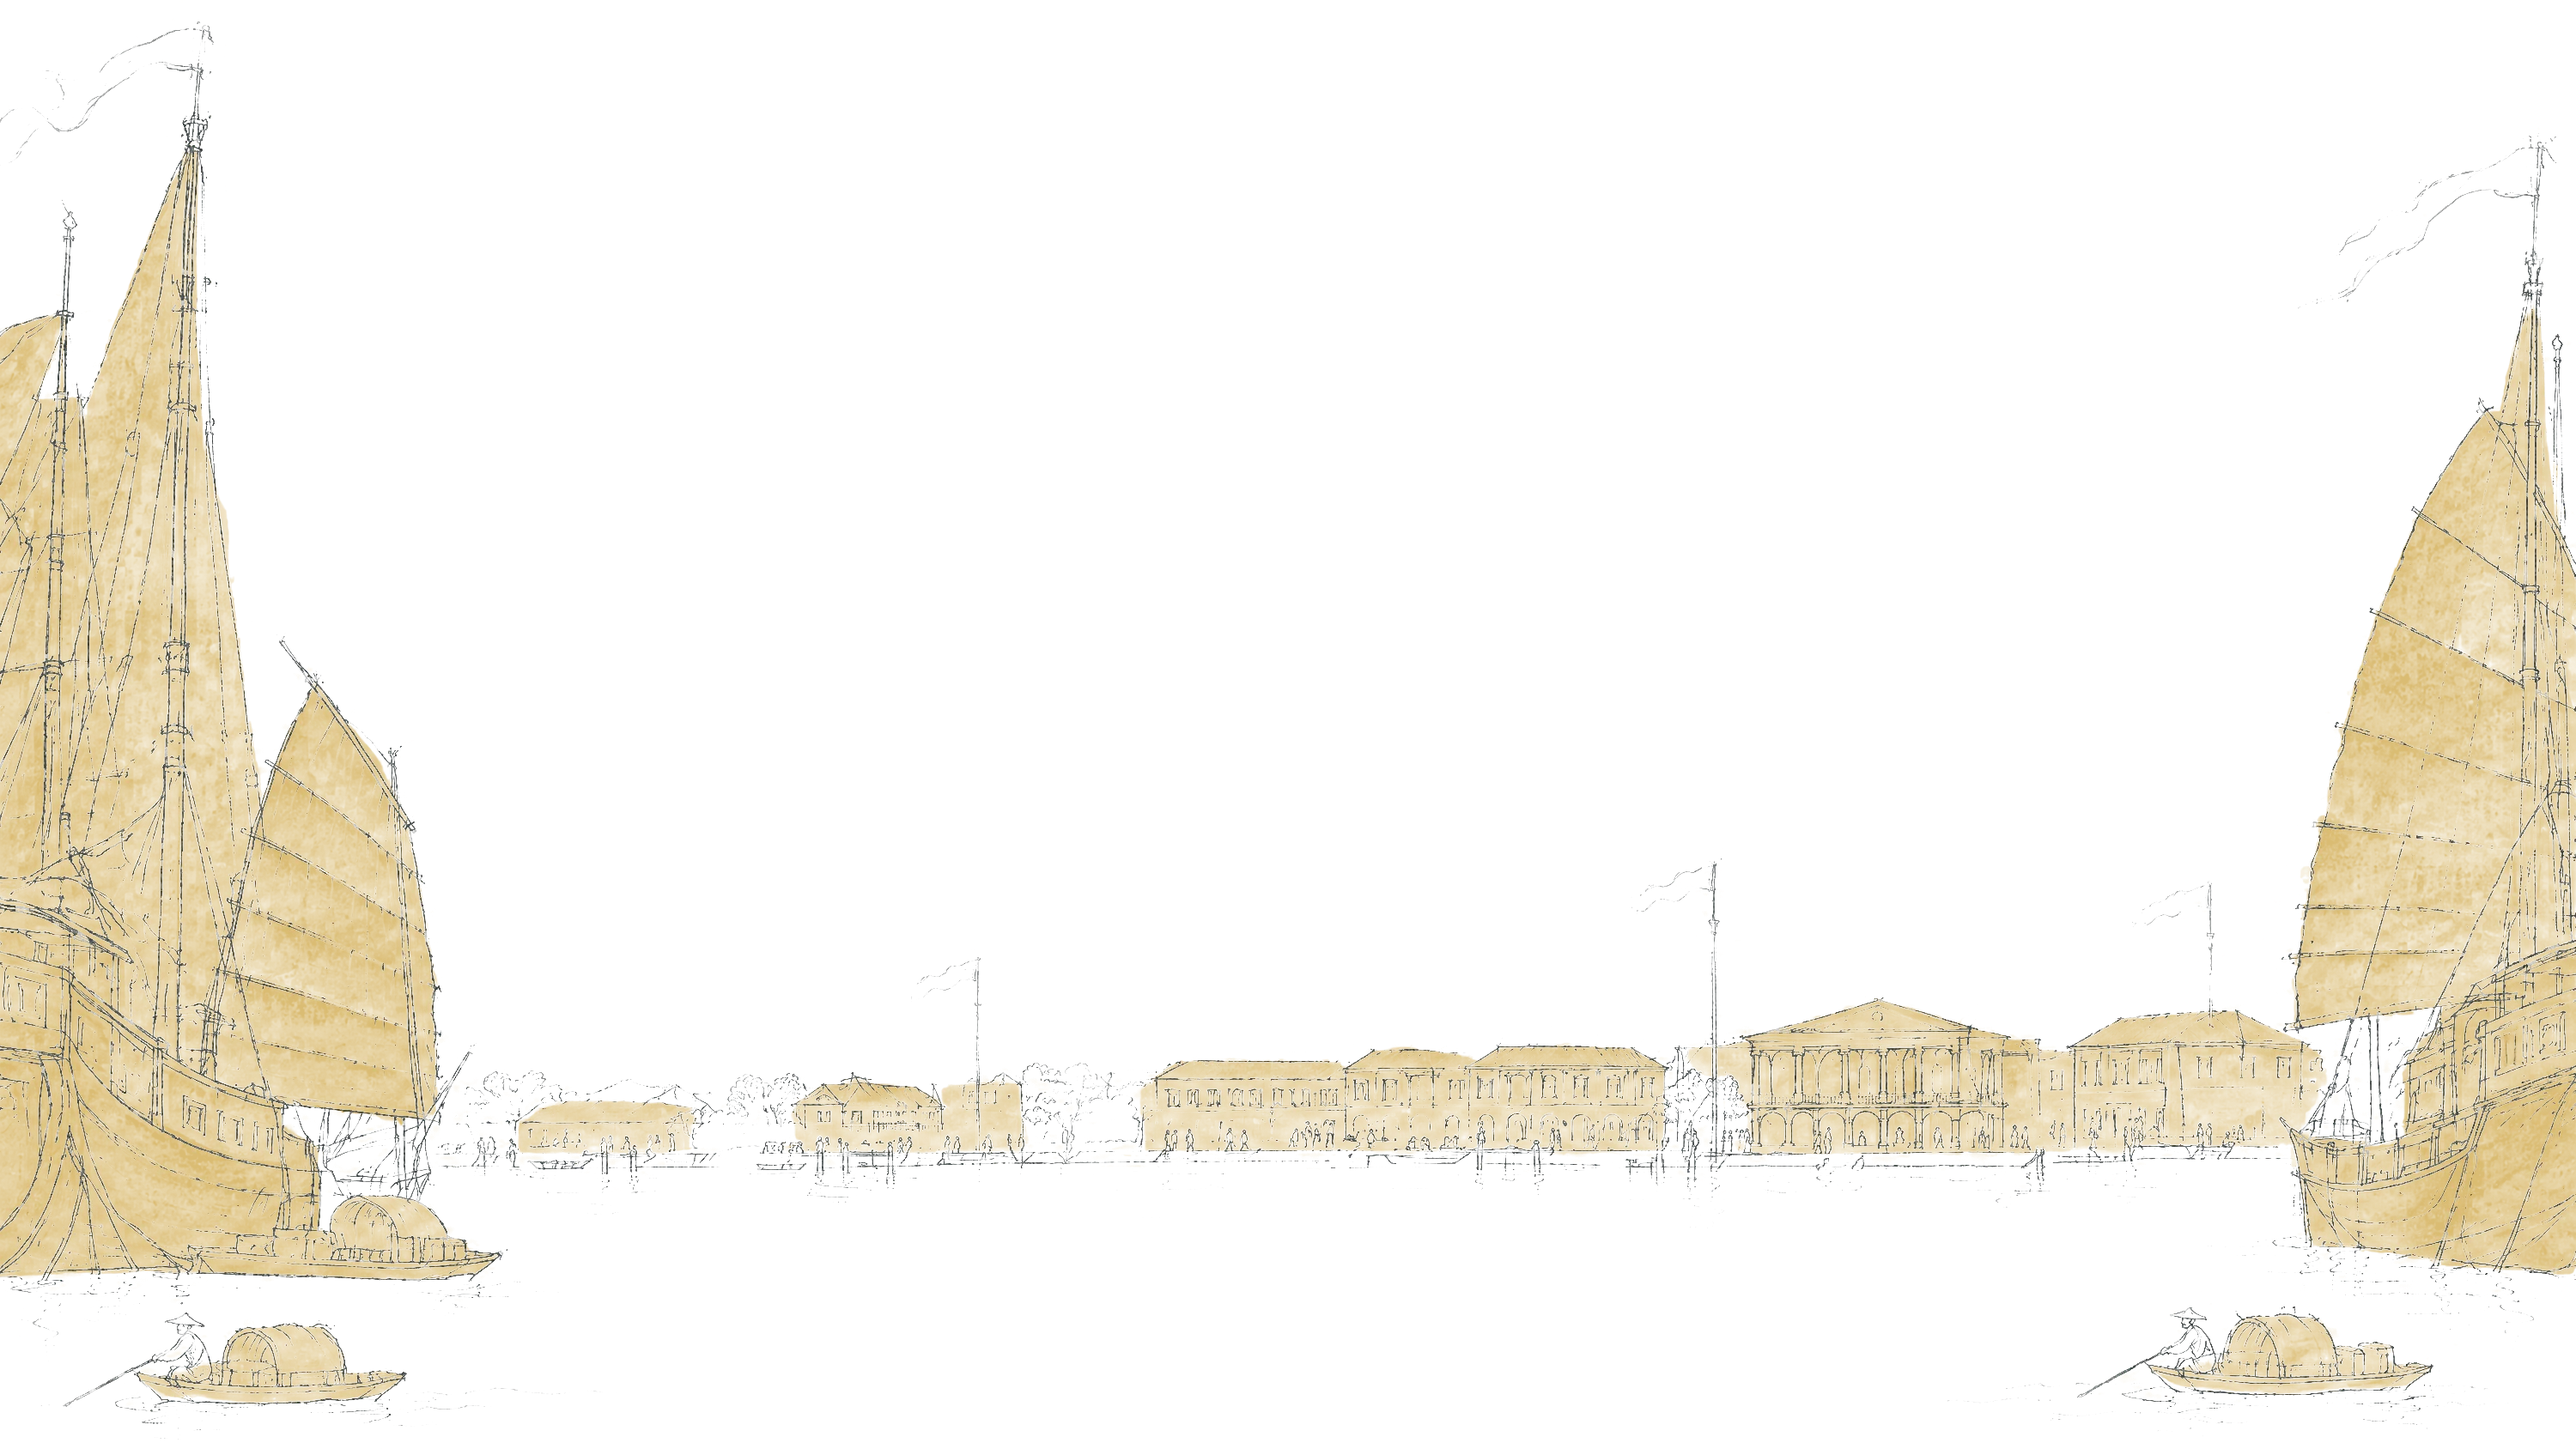
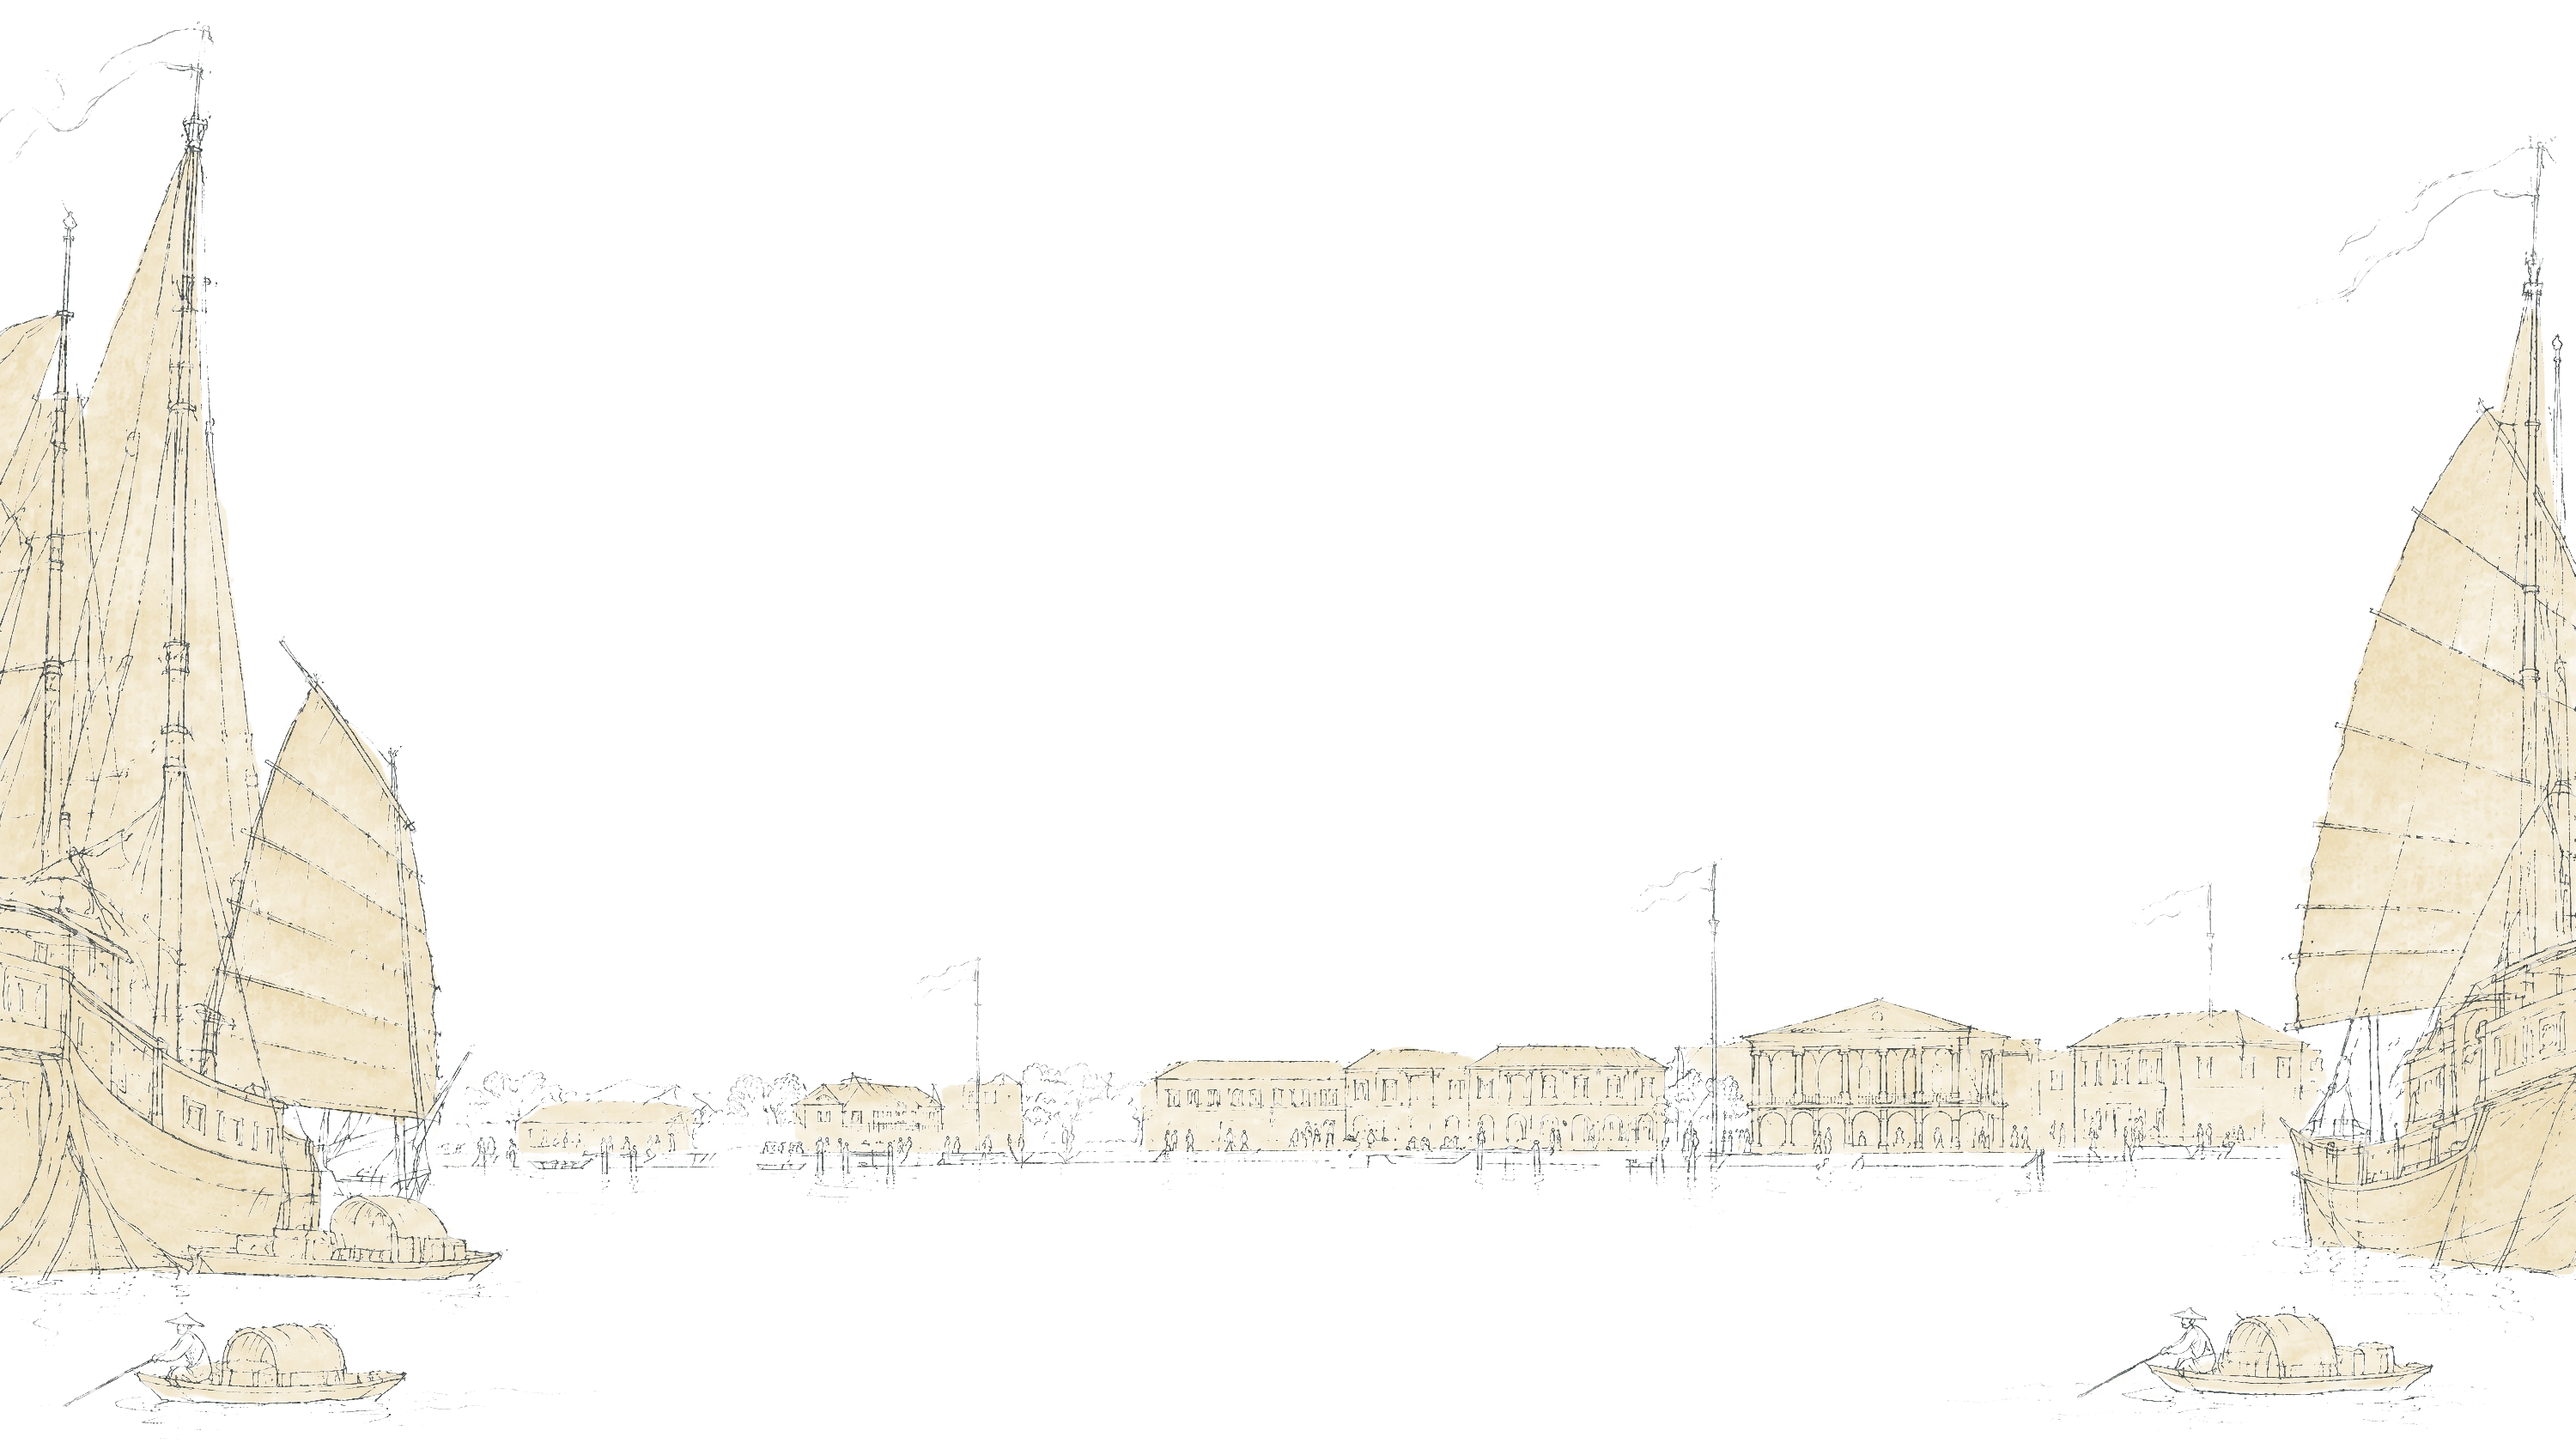
Preview: lighter gold (45%), mobile name at ~30% with full-width harbour scene
Claude-Session: https://claude.ai/code/session_01Xfug1AfVKVb6eUV1Tk5buw

diff --git a/preview/index.html b/preview/index.html
@@ -48,6 +48,8 @@ h1{font-weight:400;font-size:clamp(24px,5.2vw,76px);line-height:1.1;letter-spaci
 .mail a:hover{text-decoration:underline}
 @media (max-aspect-ratio:4/5){
   main{padding:0 16px}
+  /* Mobile: name ~30% down the screen, leaving the lower part for a full-width harbour scene. */
+  .hero{inset:auto 0 auto 0;top:30%;transform:translateY(-50%)}
   .contact{padding-bottom:max(36px,7vh)}
   h1{font-size:clamp(20px,6.8vw,44px);letter-spacing:.16em;padding-left:.16em}
   :root{--sub:clamp(11px,3.4vw,16px)}
@@ -113,18 +115,18 @@ h1{font-weight:400;font-size:clamp(24px,5.2vw,76px);line-height:1.1;letter-spaci
   var SCENE_TOP = 0.653, SCENE_BOT = 0.945;
   var contact = document.querySelector('.contact'), subEl = document.querySelector('.sub');
   // Desktop: fill the screen.
-  // Mobile: the harbour scene must sit entirely BELOW the name and ABOVE the address, on any
-  // screen height. Measure both, then size the scene to fit that gap (shrinking it if the
-  // screen is short, with its side edges faded so no hard cut shows).
+  // Mobile: the harbour scene runs full width (a little wider than the screen, so the ships crop
+  // at the edges) and sits centred in the gap between the name and the address. It only shrinks
+  // if a screen is too short for that, so it never sits level with the name or the address.
   function cover() {
     var iw = img.naturalWidth, ih = img.naturalHeight, cw = cv.width, ch = cv.height, s, w, h, x, y;
     if (isMobile) {
       var dpr = cw / innerWidth;
       var gapTop = (subEl.getBoundingClientRect().bottom + 22) * dpr;
       var gapBot = (contact.getBoundingClientRect().top - 10) * dpr;
-      s = Math.min(cw / iw * 1.04, Math.max(1, gapBot - gapTop) / (ih * (SCENE_BOT - SCENE_TOP)));
+      s = Math.min(cw / iw * 1.18, Math.max(1, gapBot - gapTop) / (ih * (SCENE_BOT - SCENE_TOP)));
       w = iw * s; h = ih * s; x = (cw - w) / 2;
-      y = gapBot - SCENE_BOT * h;
+      y = (gapTop + gapBot) / 2 - ((SCENE_TOP + SCENE_BOT) / 2) * h;
       ctx.drawImage(img, x, y, w, h);
       if (w < cw) { fadeX(x, x + w * 0.08); fadeX(x + w, x + w * 0.92); }
     } else {
